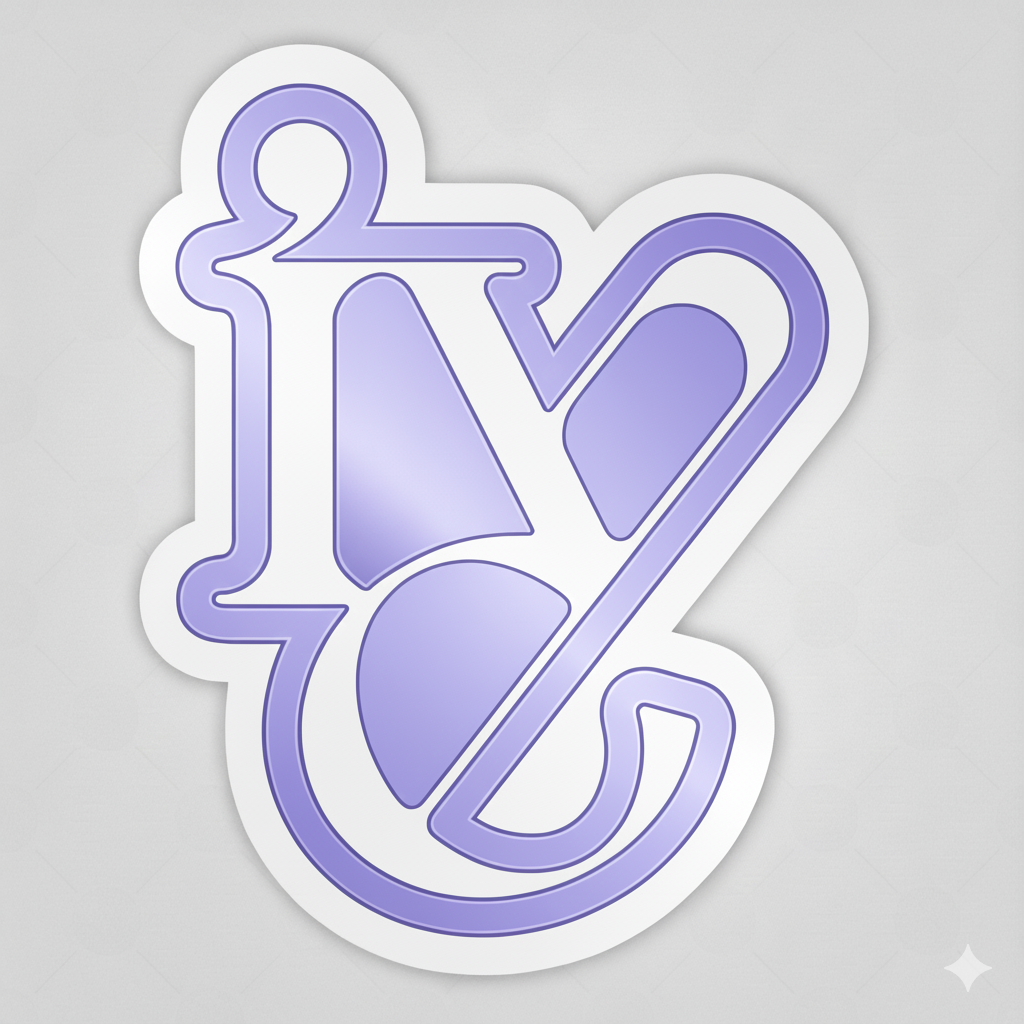
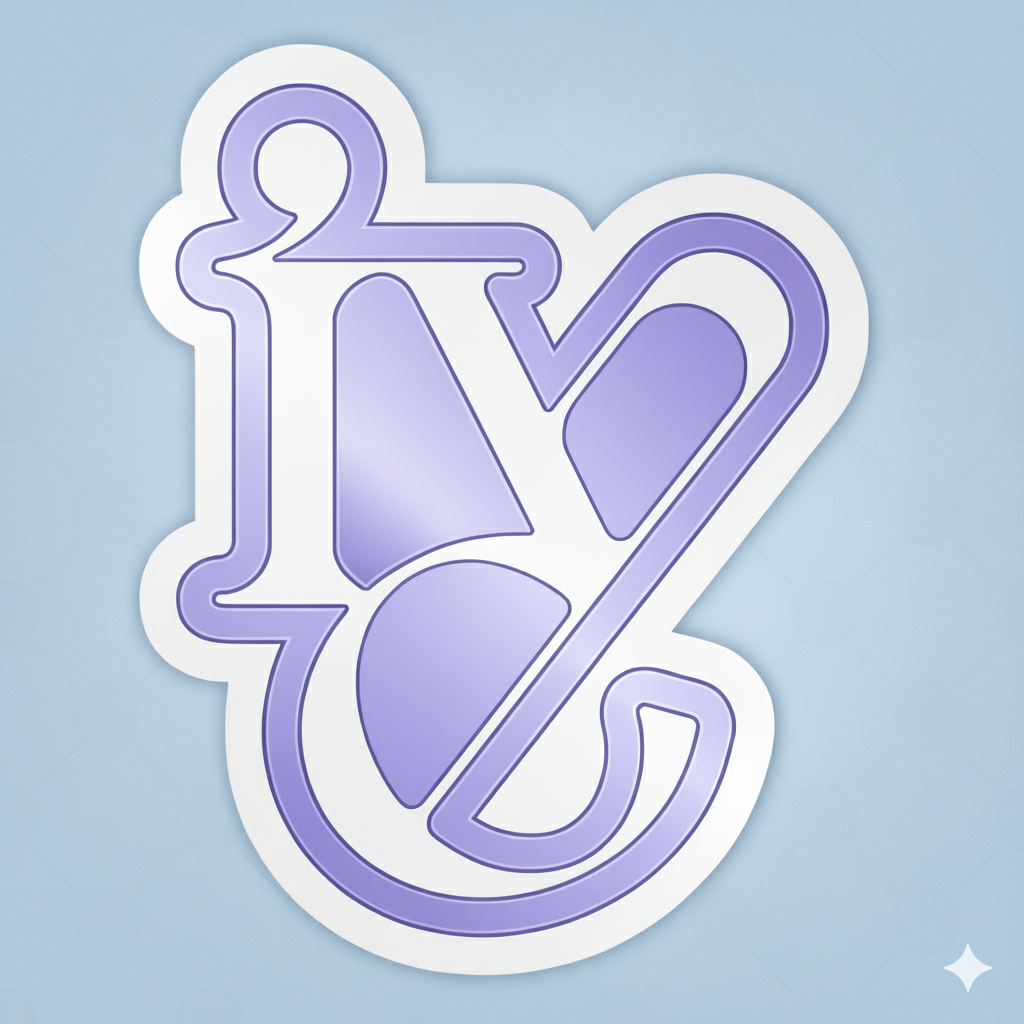
Add files via upload

diff --git a/index.html b/index.html
@@ -6,11 +6,13 @@
     <meta name="viewport" content="width=device-width, initial-scale=1.0">
     <title>Kamille - potfolio</title>
 
+    <!-- icone -->
     <link rel="shortcup icon" href="favicon.ico">
 
     <!-- Bootstrap CSS -->
     <link href="https://cdn.jsdelivr.net/npm/bootstrap@5.3.8/dist/css/bootstrap.min.css" rel="stylesheet"
         integrity="sha384-sRIl4kxILFvY47J16cr9ZwB07vP4J8+LH7qKQnuqkuIAvNWLzeN8tE5YBujZqJLB" crossorigin="anonymous">
+
 
     <!-- bootstrap icons -->
     <link rel="stylesheet" href="https://cdn.jsdelivr.net/npm/bootstrap-icons@1.13.1/font/bootstrap-icons.min.css">
@@ -335,12 +337,33 @@
 
         <div class="container row">
 
-            <div class="col-lg-6 col6">
-                <img src="img/ive.png" alt="Um adesivo digitalizado com fundo branco, apresentando um monograma estilizado das letrasIY&C As letras são conectadas e desenhadas em um estilo que as faz parecer fluidas e interligadas, quase como uma única forma. As linhas externas do monograma são delineadas em um tom de violeta azulado muito claro, quase pastel, e o interior das letras possui um gradiente sutil do mesmo tom, dando uma leve impressão de profundidade ou brilho suave. O fundo do adesivo, por trás do contorno branco, é um cinza muito claro com um padrão de linhas diagonais entrelaçadas, dando uma textura discreta ao papel de parede.">
+            <div class="col-lg-2 col-md-4 col6">
+                <img src="img/ive.png"
+                    alt="Um adesivo digitalizado com fundo branco, apresentando um monograma estilizado das letras IVE As letras são conectadas e desenhadas em um estilo que as faz parecer fluidas e interligadas, quase como uma única forma. As linhas externas do monograma são delineadas em um tom de violeta azulado muito claro, quase pastel, e o interior das letras possui um gradiente sutil do mesmo tom, dando uma leve impressão de profundidade ou brilho suave. O fundo do adesivo, por trás do contorno branco, é um azul muito claro com um padrão de linhas diagonais entrelaçadas, dando uma textura discreta ao papel de parede."
+                    width="225">
             </div>
 
-            <div class="col-lg-5 col5">
-                
+            <div class="col-lg-2  col-md-4 col5">
+                espaço para textos e tópicos
+            </div>
+
+            <div class="col-lg-2  col-md-4 col7">
+                coluna 3
+            </div>
+
+            <div class="col-lg-2  col-md-4 col8">
+                coluna 3
+
+            </div>
+
+            <div class="col-lg-2  col-md-4 col5">
+                coluna 3
+
+            </div>
+
+            <div class="col-lg-2  col-md-4 col7">
+                coluna 3
+
             </div>
 
         </div>

diff --git a/estilo.css b/estilo.css
@@ -357,8 +357,21 @@ h3 {
 }
 
 
+.col6{
+    background-color: rgb(171, 203, 231);
+}
 
+.col5{
+background: rgb(237, 173, 195);
+}
 
+.col7{
+background: rgb(240, 144, 240);
+}
+
+.col8{
+    background: rgb(148, 148, 239);
+}
 
 /* medidas responsivas */
 
